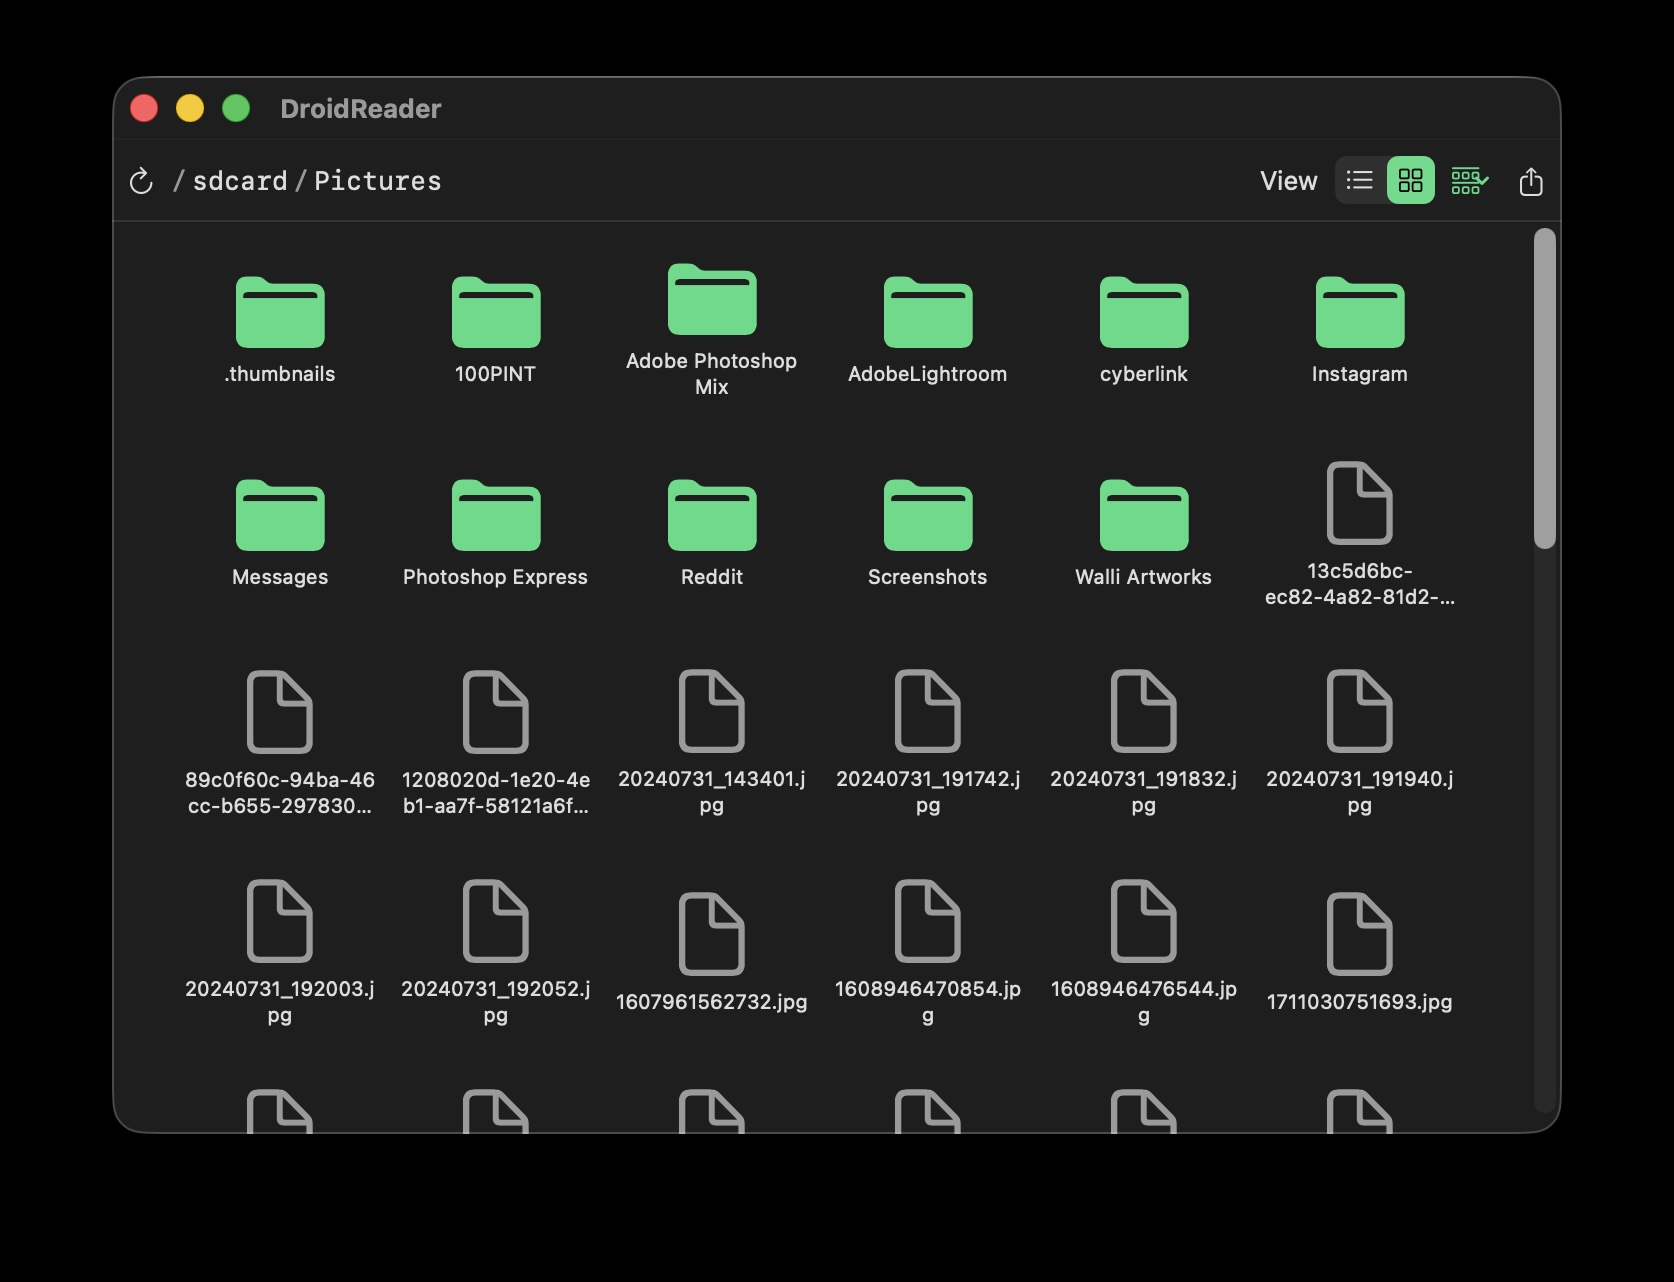
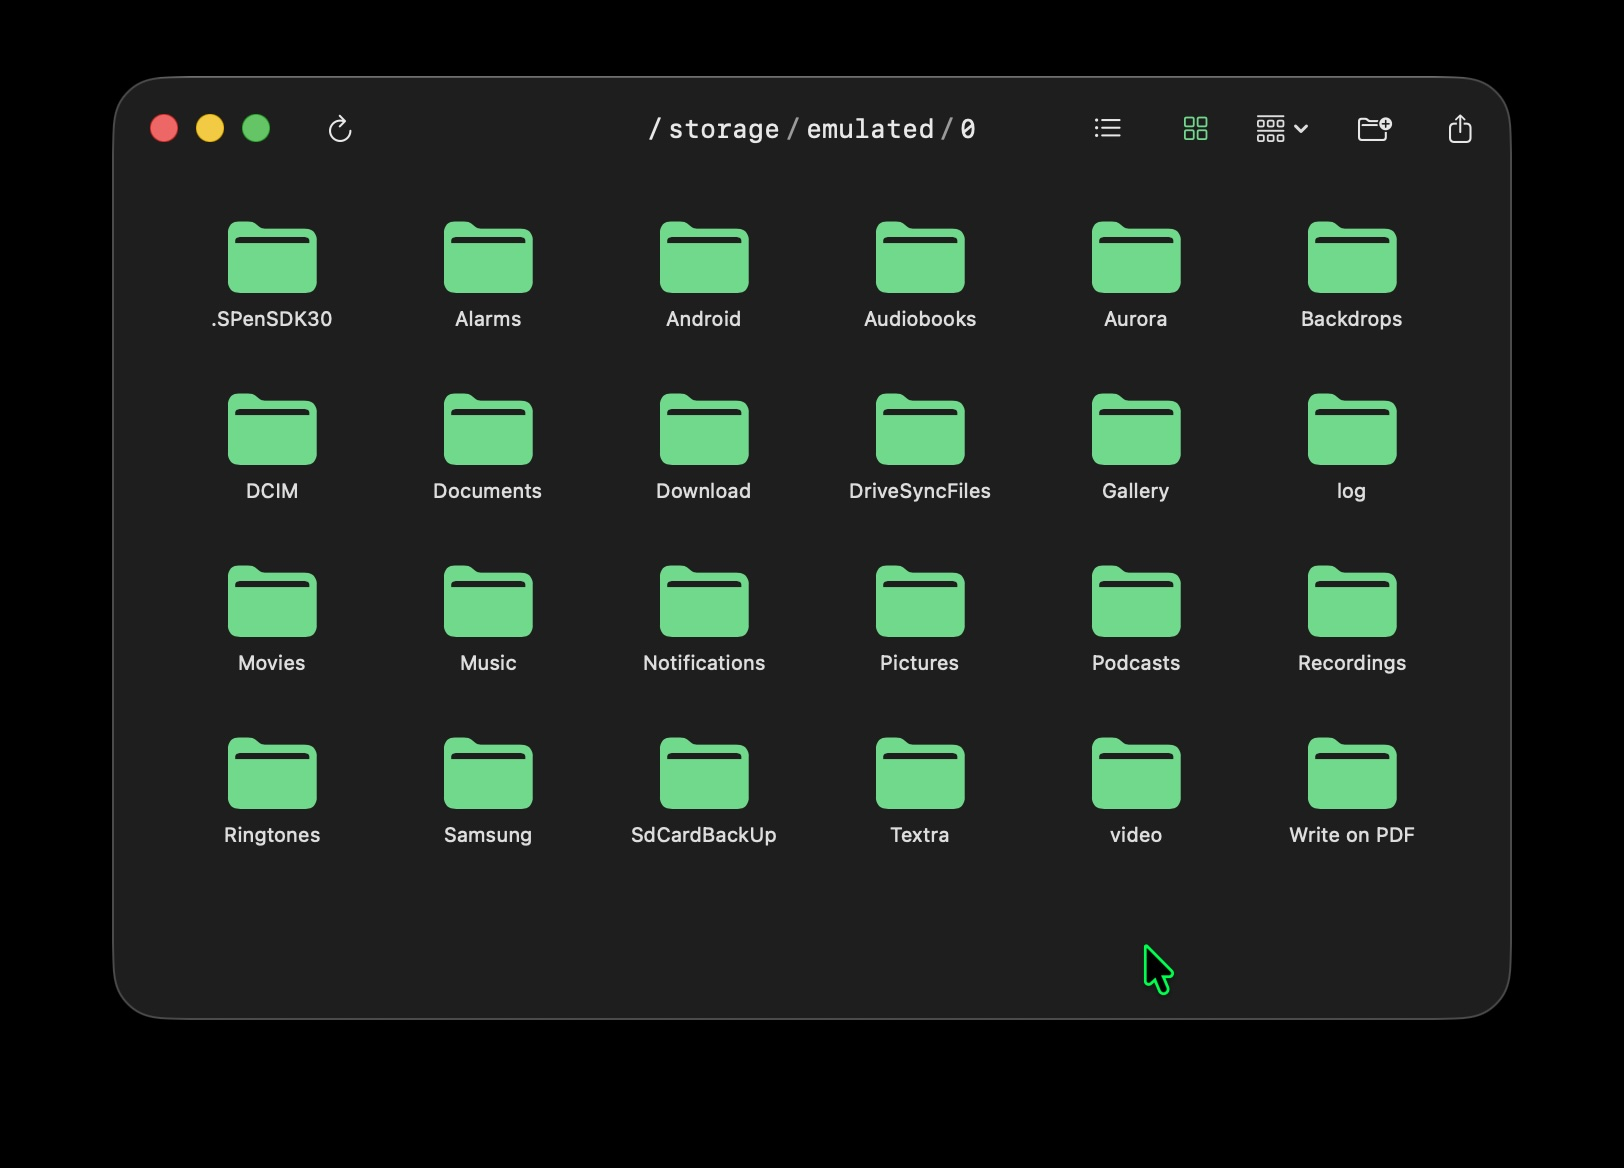
Refresh README screenshots and fix stale wording
- Swapped every screenshot for current-app shots: root storage listing,
  grid view, breadcrumb hover, New Folder dialog, and a new toolbar
  overflow-menu shot demonstrating the "»" collapse behavior. Dropped
  the old Upload screenshot since none of the new captures cover it
  (the Upload feature bullet stays, just without a screenshot).
- Fixed the hero image's caption, which still described the previous
  screenshot's content (Downloads folder + Save to… menu).
- Documented that the root "/" breadcrumb segment now reaches the whole
  filesystem, not just phone storage.
- Corrected the Notes section, which claimed file access was scoped to
  /sdcard and its subdirectories — no longer true since root navigation
  shipped; system folders are reachable and now show a permission error
  instead of silently being out of scope.
- Filled in the real clone URL in place of the <repo-url> placeholder.
- Tightened a couple of clunky feature-list phrasings.

diff --git a/README.md b/README.md
@@ -2,7 +2,7 @@
 
 A native macOS app for browsing your Android phone's storage over USB — no MTP, no kernel extension, no background daemon.
 
-![Diroid browsing a phone's Downloads folder, with the Save to… context menu open](Screenshots/screenshot.jpg)
+![Diroid listing a phone's internal storage](Screenshots/list-view.jpg)
 
 ## What is this?
 
@@ -10,21 +10,25 @@ macOS has no built-in way to see an Android phone's files when you plug it in ov
 
 ## Features
 
-- Browse your phone's storage like a Finder window — List and Icon/Grid view, with sortable Group By (Name / Size / Date Modified)
+- Browse your phone's storage like a Finder window — List and Grid view, groupable by Name, Size, or Date Modified
 - Double-click a file to pull it and open it in whatever app macOS would normally use for that file type
 - Right-click → **Save to…** to copy a file to a folder you choose, without opening it
 - Right-click → **Rename…** to rename or move a file or folder
 - Right-click → **Delete** to remove a file, or a folder and everything in it (with a confirmation prompt first)
 - **New Folder** (➕📁) button to create a folder in the current directory
 - **Upload** (↑) button to push local files onto the phone
-- Click any segment of the path breadcrumb to jump straight to that folder
+- Click any segment of the path breadcrumb to jump straight to that folder, including the root `/` itself — the whole filesystem is browsable, not just your phone's storage (permission-restricted system folders show a clear error instead of a blank screen)
 - **Refresh** (↻) button to reconnect after unplugging/replugging your phone — no need to relaunch
 
 ### Screenshots
 
-| Grid view | Upload | Path breadcrumb |
+| Grid view | Path breadcrumb | New Folder |
 | --- | --- | --- |
-| ![Grid/Icon view of a phone's Pictures folder](Screenshots/grid-view.jpg) | ![Upload file picker, choosing local files to push to the phone](Screenshots/upload.jpg) | ![Hovering a breadcrumb segment highlights it green](Screenshots/breadcrumb-hover.jpg) |
+| ![Grid/Icon view of a phone's internal storage](Screenshots/grid-view.jpg) | ![Hovering a breadcrumb segment highlights it green](Screenshots/breadcrumb-hover.jpg) | ![Creating a new folder from the toolbar](Screenshots/new-folder.jpg) |
+
+The toolbar adapts to a narrower window rather than clipping — everything that doesn't fit collapses into a "»" overflow menu:
+
+![Toolbar overflow menu showing every control still reachable in a narrow window](Screenshots/overflow-menu.jpg)
 
 ## Requirements
 
@@ -36,7 +40,7 @@ macOS has no built-in way to see an Android phone's files when you plug it in ov
 ## Getting started
 
 ```bash
-git clone <repo-url>
+git clone https://github.com/ike-V/Diroid.git
 cd Diroid
 ./build.sh
 open Diroid.app
@@ -48,7 +52,7 @@ Plug in your phone before or after launching — the first time, you'll get a pr
 
 - This is a personal project, built and tested against one Samsung Galaxy Z Flip 5. It should work with any Android device with USB debugging enabled, but hasn't been tested more broadly.
 - `build.sh` ad-hoc code-signs the app — enough to run it on your own Mac, not enough to hand it to someone else's (their Mac will flag it as from an unidentified developer).
-- File access is scoped to whatever the `adb` shell user can already reach (typically `/sdcard` and its subdirectories) — the same scope as `adb shell`/`adb pull`/`adb push` from the command line.
+- Diroid opens to your phone's internal storage (`/storage/emulated/0`, the real path behind the familiar `/sdcard` shortcut), but the whole filesystem is reachable via the root `/` breadcrumb segment. File access is scoped to whatever the `adb` shell user can already reach — the same scope as `adb shell`/`adb pull`/`adb push` from the command line — so system folders like `/data` will show a permission error rather than their contents.
 
 ## License
 
